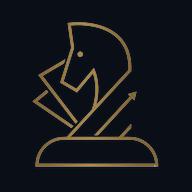
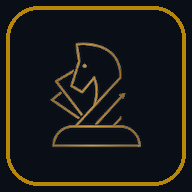
Add files via upload

Changed region(s): [[0.1562, 0.0938, 0.8438, 0.875], [0.0312, 0.0312, 0.9688, 0.9688]]

diff --git a/index.html b/index.html
@@ -4,9 +4,17 @@
     <meta charset="UTF-8">
     <meta name="viewport" content="width=device-width, initial-scale=1.0, maximum-scale=1.0, user-scalable=yes, viewport-fit=cover">
     <meta name="theme-color" content="#0a0e16">
+    <meta name="mobile-web-app-capable" content="yes">
     <meta name="apple-mobile-web-app-capable" content="yes">
+    <meta name="apple-mobile-web-app-status-bar-style" content="black-translucent">
+    <meta name="apple-mobile-web-app-title" content="فاروق - لوحة التحكم">
     <title>لوحة تحكم المبيعات والاشتراكات | FAROUK GRUP</title>
-    <link rel="icon" type="image/png" href="https://lh3.googleusercontent.com/d/1e6u-DPTinDJl_Q9wW3QvGgzFbXO_2sXa">
+    <link rel="manifest" href="manifest.webmanifest">
+    <link rel="icon" type="image/png" sizes="192x192" href="icon-192.png">
+    <link rel="icon" type="image/png" sizes="512x512" href="icon-512.png">
+    <link rel="apple-touch-icon" href="icon-192.png">
+    <link rel="apple-touch-icon" sizes="192x192" href="icon-192.png">
+    <link rel="apple-touch-icon" sizes="512x512" href="icon-512.png">
     <link href="https://fonts.googleapis.com/css2?family=Tajawal:wght@300;400;500;700;900&display=swap" rel="stylesheet">
     <link rel="stylesheet" href="https://cdnjs.cloudflare.com/ajax/libs/font-awesome/6.5.0/css/all.min.css">
     <script src="https://cdn.jsdelivr.net/npm/chart.js@4.4.0/dist/chart.umd.min.js"></script>
@@ -357,8 +365,14 @@
         <h2>الدخول للمصرح لهم</h2>
         <p class="sub-title" id="loginSubTitle">مجموعة فاروق للاستشارات والأعمال</p>
         <input type="email" id="usernameInput" class="login-input" placeholder="البريد الإلكتروني" value="" dir="ltr" autocomplete="username">
-        <input type="password" id="passwordInput" class="login-input" placeholder="كلمة المرور" autofocus autocomplete="current-password">
-        <button class="login-btn" id="loginBtn"><i class="fas fa-sign-in-alt"></i> دخول</button>
+        <input type="password" id="passwordInput" class="login-input" placeholder="كلمة المرور" autocomplete="current-password">
+        <button type="button" class="login-btn" id="loginBtn" onclick="attemptLogin()"><i class="fas fa-sign-in-alt"></i> دخول</button>
+        <div id="loginStep2" style="display:none;margin-top:8px;">
+            <p style="color:var(--gold-light);font-size:0.9rem;margin-bottom:10px;" id="otpHint">أدخل رمز التحقق المرسل لبريدك</p>
+            <input type="text" id="otpInput" class="login-input" placeholder="رمز التحقق (6 أرقام)" dir="ltr" maxlength="6" inputmode="numeric" autocomplete="one-time-code">
+            <button type="button" class="login-btn" id="otpBtn" onclick="verifyOtpLogin()"><i class="fas fa-shield-alt"></i> تأكيد الدخول</button>
+            <button type="button" class="login-btn" id="backToLoginBtn" style="margin-top:8px;background:transparent;border:1px solid #555;color:#ccc;"><i class="fas fa-arrow-right"></i> رجوع</button>
+        </div>
         <div class="error-msg" id="errorMsg"></div>
     </div>
 </div>
@@ -369,7 +383,7 @@
         <i class="fas fa-exclamation-triangle" style="font-size:2.8rem; color:#fbbf24; margin-bottom:0.9rem;"></i>
         <h2 id="sessionExpiredTitle">⚠ انتهت صلاحية الجلسة</h2>
         <p id="sessionExpiredMsg">انتهت مدة الجلسة (24 ساعة). الرجاء تسجيل الدخول مجدداً.</p>
-        <a href="https://alfan.link/faroukazem?digital=r89RJK" target="_blank" class="renew-link" id="renewLinkBtn" style="display:none;">
+        <a href="#" class="renew-link" id="renewLinkBtn" style="display:none;" onclick="return false;">
             <i class="fas fa-sync-alt"></i> تجديد الإشتراك
         </a>
         <button class="relogin-btn" id="reloginBtn"><i class="fas fa-sign-in-alt"></i> العودة لشاشة الدخول</button>
@@ -715,6 +729,8 @@
         <input type="text" id="staffFullName" placeholder="الاسم">
         <label>كلمة المرور</label>
         <input type="text" id="staffPassword" dir="ltr" placeholder="كلمة مرور قوية">
+        <label>رقم الهاتف (للتحقق عند الدخول)</label>
+        <input type="tel" id="staffPhone" dir="ltr" placeholder="90555...">
         <label style="margin-top:12px;display:block;color:var(--gold-light);">المنصات المسموحة</label>
         <div style="display:grid;grid-template-columns:1fr 1fr;gap:6px;margin:8px 0;">
             <label style="display:flex;align-items:center;gap:6px;font-size:0.85rem;"><input type="checkbox" class="perm-plat" value="comprehensive"> المنصة الشاملة</label>
@@ -835,41 +851,7 @@
 <div class="toast-container" id="toastBox"></div>
 
 <script>
-// ---- كود الحماية ومنع الوصول لأدوات المطور ----
-(function () {
-  "use strict";
-
-  // منع F12 واختصارات أدوات المطور وعرض المصدر
-  document.addEventListener('keydown', function (e) {
-    // F12
-    if (e.key === 'F12' || e.keyCode === 123) {
-      e.preventDefault();
-      return false;
-    }
-    // Ctrl+Shift+I / J / C
-    if (e.ctrlKey && e.shiftKey &&
-        (e.key === 'I' || e.key === 'i' ||
-         e.key === 'J' || e.key === 'j' ||
-         e.key === 'C' || e.key === 'c')) {
-      e.preventDefault();
-      return false;
-    }
-    // Ctrl+U (عرض المصدر)
-    if (e.ctrlKey && (e.key === 'U' || e.key === 'u')) {
-      e.preventDefault();
-      return false;
-    }
-  }, true);
-
-  // منع النقر بزر الماوس الأيمن (بدون alert)
-  document.addEventListener('contextmenu', function (e) {
-    e.preventDefault();
-    return false;
-  }, true);
-
-})();
-// ---- نهاية كود الحماية ----
-    const GOOGLE_SCRIPT_URL = "https://script.google.com/macros/s/AKfycbx0XST9C_oSUU6vTb_TLOudAfCMF146LqxVfd-XmSV7O5bccAdeMm1KmVVK0YYUd3_MfQ/exec";
+    const GOOGLE_SCRIPT_URL = "https://script.google.com/macros/s/AKfycbwzHSxbzddg--qk_D-vMuNYdTkG6WPdv16o82rjDRhLCQDmuJqcmiKgp1hwOa7UvA3ViA/exec";
     // يجب أن يطابق ADMIN_KEY في Script Properties للمنصة الشاملة و ADMINSECRETKEY لهندسة المينيو
     const ADMIN_KEY = "mF9$kL2#pQ8wZ4xR7vN1yT6";
     const SESSION_DURATION_MS = 24 * 60 * 60 * 1000;
@@ -993,7 +975,7 @@
         localStorage.removeItem('userToken'); localStorage.removeItem('userName'); localStorage.removeItem('daysLeft'); localStorage.removeItem('loginTimestamp');
         document.getElementById('sessionExpiredTitle').textContent = isSubExpired ? '⚠ انتهى الاشتراك' : '⏰ انتهت الجلسة';
         document.getElementById('sessionExpiredMsg').textContent = reason;
-        document.getElementById('renewLinkBtn').style.display = isSubExpired ? 'inline-block' : 'none';
+        document.getElementById('renewLinkBtn').style.display = 'none'; // لا تجديد — صفحة داخلية للموظفين فقط
         document.getElementById('loginOverlay').style.display = 'none';
         document.getElementById('sessionExpiredOverlay').style.display = 'flex';
     }
@@ -1057,37 +1039,87 @@
         };
     }
 
-    async function attemptLogin() {
-        const usernameEl = document.getElementById('usernameInput');
-        const username = (usernameEl ? usernameEl.value.trim() : '') || 'faroukgrup@gmail.com';
-        const password = document.getElementById('passwordInput').value.trim();
-        if (!password) { document.getElementById('errorMsg').textContent = '❌ أدخل كلمة المرور'; return; }
-        const btn = document.getElementById('loginBtn'); btn.innerHTML = '<i class="fas fa-spinner fa-pulse"></i> جاري التحقق...'; btn.disabled = true;
+    let pendingLoginEmail = '';
+    window.attemptLogin = async function attemptLogin() {
         try {
-            const body = new URLSearchParams({ action: 'login', username, password });
-            const res = await fetch(GOOGLE_SCRIPT_URL, { method: 'POST', headers: { 'Content-Type': 'application/x-www-form-urlencoded;charset=UTF-8' }, body });
+            const usernameEl = document.getElementById('usernameInput');
+            const username = (usernameEl && usernameEl.value ? usernameEl.value.trim() : '');
+            const passwordEl = document.getElementById('passwordInput');
+            const password = passwordEl ? passwordEl.value.trim() : '';
+            const err = document.getElementById('errorMsg');
+            if (!username || !password) {
+                if (err) err.textContent = '❌ أدخل البريد وكلمة المرور';
+                return;
+            }
+            const btn = document.getElementById('loginBtn');
+            if (btn) { btn.innerHTML = '<i class="fas fa-spinner fa-pulse"></i> جاري الدخول...'; btn.disabled = true; }
+            if (err) err.textContent = '';
+            const body = new URLSearchParams({ action: 'login', username: username, password: password });
+            const res = await fetch(GOOGLE_SCRIPT_URL, {
+                method: 'POST',
+                headers: { 'Content-Type': 'application/x-www-form-urlencoded;charset=UTF-8' },
+                body: body
+            });
             const r = await res.json();
-            if (r.status === 'success') {
-                localStorage.setItem('userToken', r.token);
-                localStorage.setItem('userName', r.name || username);
-                localStorage.setItem('userEmail', r.email || username);
-                localStorage.setItem('userRole', r.role || 'staff');
-                localStorage.setItem('userPerms', JSON.stringify(r.permissions || {}));
-                localStorage.setItem('isSuperAdmin', (r.isSuperAdmin || r.role === 'super') ? '1' : '0');
-                localStorage.setItem('loginTimestamp', Date.now().toString());
-                if (r.daysLeft !== undefined) localStorage.setItem('daysLeft', r.daysLeft);
-                loadCurrentUserFromStorage();
-                document.getElementById('loginOverlay').style.display = 'none';
-                document.getElementById('sessionExpiredOverlay').style.display = 'none';
-                document.getElementById('dashboard').style.display = 'block';
-                applyPermissionsUI();
-                startSessionTimer(); initAudio(); loadAllData();
-                showToast(`مرحباً ${r.name}`, "fa-smile");
-            } else if (r.status === 'expired') {
-                document.getElementById('errorMsg').innerHTML = '❌ انتهى اشتراكك. <a href="https://alfan.link/faroukazem?digital=r89RJK" target="_blank" style="color:#cfa776;">تجديد</a>';
-            } else document.getElementById('errorMsg').textContent = '❌ ' + (r.message || 'بيانات خاطئة');
-        } catch (e) { document.getElementById('errorMsg').textContent = '❌ ' + e.message; }
-        finally { btn.innerHTML = '<i class="fas fa-sign-in-alt"></i> دخول'; btn.disabled = false; }
+            if (r.status === 'otp_required') {
+                pendingLoginEmail = r.email || username;
+                const step2 = document.getElementById('loginStep2');
+                if (step2) step2.style.display = 'block';
+                const hint = document.getElementById('otpHint');
+                if (hint) hint.textContent = r.message || 'أدخل رمز التحقق المرسل لبريدك';
+                if (err) err.textContent = '';
+                if (typeof showToast === 'function') showToast('تحقق من بريدك للرمز', 'fa-envelope');
+            } else if (r.status === 'success') {
+                finishLoginSuccess(r);
+            } else {
+                if (err) err.textContent = '❌ ' + (r.message || 'بيانات خاطئة');
+            }
+            if (btn) { btn.innerHTML = '<i class="fas fa-sign-in-alt"></i> دخول'; btn.disabled = false; }
+        } catch (e) {
+            const err = document.getElementById('errorMsg');
+            if (err) err.textContent = '❌ ' + (e.message || 'خطأ اتصال');
+            const btn = document.getElementById('loginBtn');
+            if (btn) { btn.innerHTML = '<i class="fas fa-sign-in-alt"></i> دخول'; btn.disabled = false; }
+        }
+    };
+    window.verifyOtpLogin = async function verifyOtpLogin() {
+        const codeEl = document.getElementById('otpInput');
+        const code = codeEl ? codeEl.value.trim() : '';
+        const err = document.getElementById('errorMsg');
+        if (!code || code.length < 6) { if (err) err.textContent = '❌ أدخل الرمز المكوّن من 6 أرقام'; return; }
+        const btn = document.getElementById('otpBtn');
+        if (btn) { btn.innerHTML = '<i class="fas fa-spinner fa-pulse"></i> جاري التأكيد...'; btn.disabled = true; }
+        try {
+            const body = new URLSearchParams({ action: 'verifyotp', username: pendingLoginEmail, otp: code });
+            const res = await fetch(GOOGLE_SCRIPT_URL, { method: 'POST', headers: { 'Content-Type': 'application/x-www-form-urlencoded;charset=UTF-8' }, body: body });
+            const r = await res.json();
+            if (r.status === 'success') finishLoginSuccess(r);
+            else if (err) err.textContent = '❌ ' + (r.message || 'رمز غير صحيح');
+        } catch (e) {
+            if (err) err.textContent = '❌ ' + (e.message || 'خطأ');
+        }
+        if (btn) { btn.innerHTML = '<i class="fas fa-shield-alt"></i> تأكيد الدخول'; btn.disabled = false; }
+    };
+    function finishLoginSuccess(r) {
+        const email = r.email || pendingLoginEmail || '';
+        localStorage.setItem('userToken', r.token);
+        localStorage.setItem('userName', r.name || email);
+        localStorage.setItem('userEmail', email);
+        localStorage.setItem('userRole', r.role || 'staff');
+        localStorage.setItem('userPerms', JSON.stringify(r.permissions || {}));
+        localStorage.setItem('isSuperAdmin', (r.isSuperAdmin || r.role === 'super') ? '1' : '0');
+        localStorage.setItem('loginTimestamp', Date.now().toString());
+        loadCurrentUserFromStorage();
+        document.getElementById('loginOverlay').style.display = 'none';
+        document.getElementById('sessionExpiredOverlay').style.display = 'none';
+        document.getElementById('dashboard').style.display = 'block';
+        const step2 = document.getElementById('loginStep2');
+        if (step2) step2.style.display = 'none';
+        applyPermissionsUI();
+        startSessionTimer();
+        initAudio();
+        loadAllData();
+        showToast('مرحباً ' + (r.name || ''), 'fa-smile');
     }
     function initialSessionCheck() {
         const token = localStorage.getItem('userToken');
@@ -2112,6 +2144,16 @@
     document.getElementById('passwordInput').addEventListener('keypress', e => { if (e.key === 'Enter') attemptLogin(); });
     const usernameInputEl = document.getElementById('usernameInput');
     if (usernameInputEl) usernameInputEl.addEventListener('keypress', e => { if (e.key === 'Enter') document.getElementById('passwordInput').focus(); });
+    const otpBtn = document.getElementById('otpBtn');
+    if (otpBtn) otpBtn.addEventListener('click', verifyOtpLogin);
+    const otpInput = document.getElementById('otpInput');
+    if (otpInput) otpInput.addEventListener('keypress', e => { if (e.key === 'Enter') verifyOtpLogin(); });
+    const backBtn = document.getElementById('backToLoginBtn');
+    if (backBtn) backBtn.addEventListener('click', () => {
+        document.getElementById('loginStep2').style.display = 'none';
+        document.getElementById('loginStep1').style.display = 'block';
+        document.getElementById('errorMsg').textContent = '';
+    });
     document.getElementById('reloginBtn').addEventListener('click', () => { document.getElementById('sessionExpiredOverlay').style.display = 'none'; showLoginScreen(); });
     window.addEventListener('load', () => { initialSessionCheck(); updateDateTime(); setInterval(updateDateTime, 1000); });
 
@@ -2177,6 +2219,7 @@
                 document.getElementById('staffFullName').value = s.fullName || '';
                 document.getElementById('staffPassword').value = '';
                 document.getElementById('staffPassword').placeholder = 'اترك فارغاً للإبقاء على الحالية';
+                if (document.getElementById('staffPhone')) document.getElementById('staffPhone').value = s.phone || '';
                 (s.permissions?.platforms || []).forEach(p => { const el = document.querySelector(`.perm-plat[value="${p}"]`); if (el) el.checked = true; });
                 (s.permissions?.actions || []).forEach(a => { const el = document.querySelector(`.perm-act[value="${a}"]`); if (el) el.checked = true; });
             }
@@ -2194,6 +2237,7 @@
         const email = document.getElementById('staffEmail').value.trim().toLowerCase();
         const fullName = document.getElementById('staffFullName').value.trim();
         const password = document.getElementById('staffPassword').value;
+        const phone = (document.getElementById('staffPhone')?.value || '').trim();
         const platforms = [...document.querySelectorAll('.perm-plat:checked')].map(c => c.value);
         const actions = [...document.querySelectorAll('.perm-act:checked')].map(c => c.value);
         if (!email || !fullName) { showToast('الإيميل والاسم مطلوبان', 'fa-exclamation', 'danger'); return; }
@@ -2203,11 +2247,11 @@
         try {
             let r;
             if (editEmail) {
-                const payload = { email: editEmail, fullName, permissions: JSON.stringify({ platforms, actions }) };
+                const payload = { email: editEmail, fullName, phone, permissions: JSON.stringify({ platforms, actions }) };
                 if (password) payload.password = password;
                 r = await apiStaffPost('updatestaff', payload);
             } else {
-                r = await apiStaffPost('createstaff', { email, password, fullName, permissions: JSON.stringify({ platforms, actions }) });
+                r = await apiStaffPost('createstaff', { email, password, fullName, phone, permissions: JSON.stringify({ platforms, actions }) });
             }
             if (r.status === 'success') { showToast(editEmail ? 'تم التحديث' : 'تم إنشاء الموظف'); closeModal('staffModal'); loadStaffListUI(); }
             else showToast(r.message || 'فشل', 'fa-times', 'danger');
@@ -2436,6 +2480,33 @@
             updateAppointmentStats();
         };
     }
+</script>
+
+<script>
+// تسجيل PWA Service Worker
+if ('serviceWorker' in navigator) {
+  window.addEventListener('load', function() {
+    navigator.serviceWorker.register('./sw.js', { scope: './' })
+      .then(function(reg) { console.log('[PWA] SW registered', reg.scope); })
+      .catch(function(err) { console.warn('[PWA] SW failed', err); });
+  });
+}
+// زر تثبيت اختياري عند توفر beforeinstallprompt
+let deferredPwaPrompt = null;
+window.addEventListener('beforeinstallprompt', function(e) {
+  e.preventDefault();
+  deferredPwaPrompt = e;
+  var btn = document.getElementById('pwaInstallBtn');
+  if (btn) btn.style.display = 'inline-flex';
+});
+window.installPwaApp = function() {
+  if (!deferredPwaPrompt) {
+    if (typeof showToast === 'function') showToast('التثبيت متاح من قائمة المتصفح (إضافة إلى الشاشة الرئيسية)', 'fa-info-circle');
+    return;
+  }
+  deferredPwaPrompt.prompt();
+  deferredPwaPrompt.userChoice.then(function() { deferredPwaPrompt = null; var btn = document.getElementById('pwaInstallBtn'); if (btn) btn.style.display = 'none'; });
+};
 </script>
 </body>
 </html>
